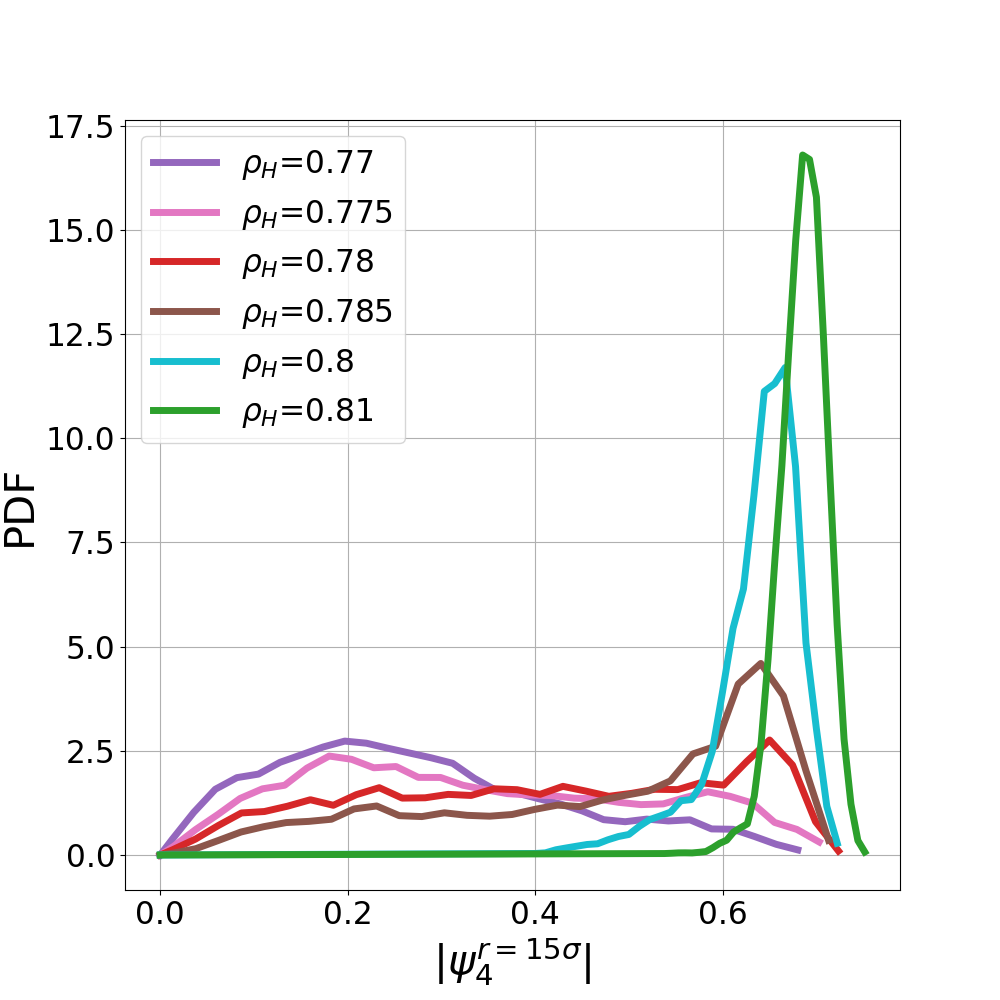
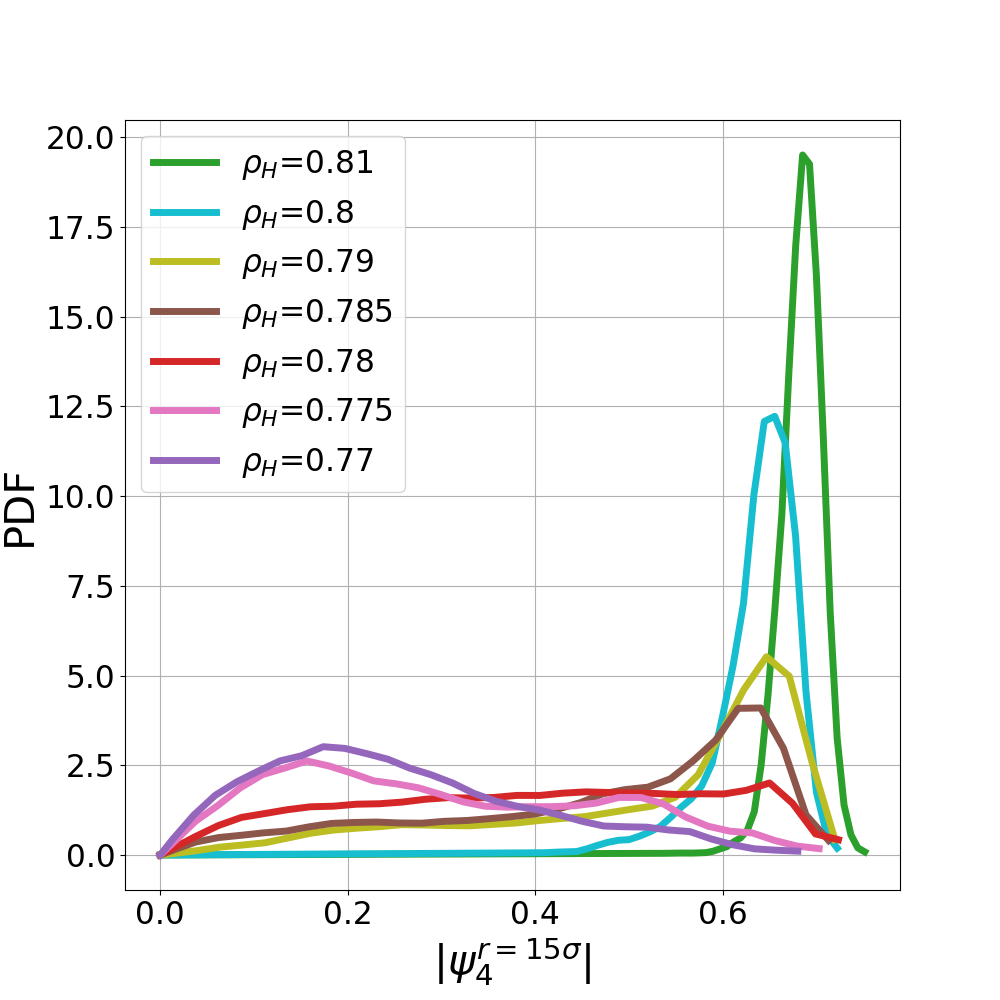
Final commit.

diff --git a/create_all_graphs.py b/create_all_graphs.py
@@ -18,8 +18,8 @@ size = 30
 params = {'legend.fontsize': size * 0.75, 'figure.figsize': (10, 10), 'axes.labelsize': size, 'axes.titlesize': size,
           'xtick.labelsize': size * 0.75, 'ytick.labelsize': size * 0.75}
 plt.rcParams.update(params)
-colors_rho = {0.85: 'C0', 0.83: 'C1', 0.81: 'C2', 0.8: 'C9', 0.78: 'C3', 0.77: 'C4', 0.785: 'C5', 0.775: 'C6',
-              0.75: 'C7', 0.79: 'C8', 0.71: 'C9', 0.84: 'C0'}
+colors_rho = {0.84: 'C0', 0.83: 'C1', 0.81: 'C2', 0.8: 'C9', 0.78: 'C3', 0.77: 'C4', 0.785: 'C5', 0.775: 'C6',
+              0.75: 'C7', 0.79: 'C8', 0.71: 'C9', 0.85: 'm'}
 direction_colors = {(1, 1): 'b', (1, -1): 'm', (-1, 1): 'g', (-1, -1): 'r', (0, 0): 'gray'}
 
 
@@ -129,7 +129,7 @@ def plot_pos_and_orientation(rhos_pos, rhos_psi):
     plt.xlim(corr_xlim)
     plt.ylabel(prepare_lbl('Bragg_S'))
     plt.legend([prepare_lbl('rhoH=' + str(r)) for r in rhos_pos] + ['$x^{-1/3}$'], loc=3)
-    plt.loglog([50, 50], [0, 1], '--r', **default_plt_kwargs)
+    plt.loglog([60, 60], [0, 1], '--r', **default_plt_kwargs)
     # ax = plt.gca()
     # ax.legend_ = None
 
@@ -141,7 +141,7 @@ def plot_pos_and_orientation(rhos_pos, rhos_psi):
     # plt.xlabel('$\Delta$r/$\sigma$')
     plt.xlabel('r/$\sigma$')
     plt.legend([prepare_lbl('rhoH=' + str(r)) for r in rhos_psi] + ['$x^{-1/4}$'], loc=3)
-    plt.loglog([50, 50], [0, 1], '--r', **default_plt_kwargs)
+    plt.loglog([60, 60], [0, 1], '--r', **default_plt_kwargs)
 
     plt.savefig('graphs/orientation_and_position_corr')
 
@@ -471,9 +471,9 @@ def plot_magnetic_corr(rhos):
     plt.legend([prepare_lbl('rhoH=' + str(r)) for r in rhos] + ['$x^{-1/3}$'])
     plt.ylim(corr_ylim)
     plt.xlim(corr_xlim)
-    plt.xlabel('$\Delta$r/$\sigma$')
+    plt.xlabel('r/$\sigma$')
     plt.ylabel(prepare_lbl('Bragg_Sm'))
-    plt.loglog([50, 50], [0, 1], '--r', **default_plt_kwargs)
+    plt.loglog([60, 60], [0, 1], '--r', **default_plt_kwargs)
     plt.savefig('graphs/magnetic_bragg_corr')
 
 
@@ -1064,6 +1064,7 @@ if __name__ == "__main__":
 
     """ Fig. 2 - correlations """
     plot_pos_and_orientation([0.84, 0.83, rhoH_tetratic], [rhoH_tetratic, 0.78, 0.77])
+    # 0.85? Shows such a slow algebraic decay it looks like long range order!
 
     """ Fig. 3 - Plot global burger field before and after cleaning """
     x_lim_zoom_in, y_lim_zoom_in = [120, 147], [30, 46]
@@ -1088,7 +1089,7 @@ if __name__ == "__main__":
     for bragg_type in ['Bragg_S', 'Bragg_Sm']:
         plot_color_bargg_peaks([0.75, 0.78, rhoH_tetratic, 0.85], bragg_type=bragg_type)
     plot_magnetic_corr([0.84, 0.83, rhoH_tetratic, 0.77])
-    plot_local_psi_hist(np.unique([rhoH_tetratic, 0.8, 0.785, 0.78, 0.775, 0.77]))
+    plot_local_psi_hist(np.unique([rhoH_tetratic, 0.8, 0.79, 0.785, 0.78, 0.775, 0.77])[-1::-1])
 
     """
     In the following Burgers field coarse graining graphs, the color scheme is different then in some of the graphs in
@@ -1107,7 +1108,5 @@ if __name__ == "__main__":
         coarse_grain_burgers(rho, realization=real, plot_for_paper=True, **coarse_grain_kwargs)
     coarse_grain_null_model(ref_rhoH=rhoH_tetratic, ref_real=realization, distance_threshold=10)
 
-    # TODO: replot correlations when finished: Bragg_S rhoH=0.8[45], psi_14 for rhoH=0.7[78], LocalPsi 0.7{85,8,75,77}.
-    # TODO: Debug LocalPsi it does not run properly.
     print('Finished succesfully!')
     plt.show()
